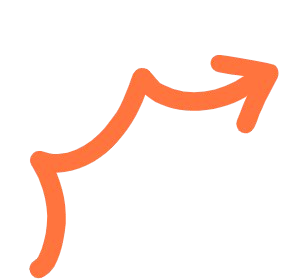
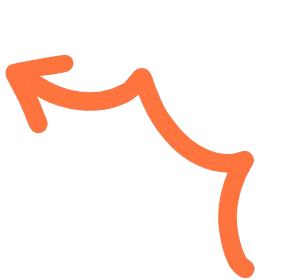
front page formatting arrow

Changed region(s): [[0.0, 0.1714, 0.9859, 1.0]]

diff --git a/backend/uni_central/uni_central/static/css/style.css b/backend/uni_central/uni_central/static/css/style.css
@@ -70,8 +70,8 @@ body {
 
 .orange-arrow {
   position: absolute;
-  top: 90px;
-  left: 30px;
+  top: -30px;
+  left: 450px;
   width: 150px;
   height: auto;
   z-index: 0;
